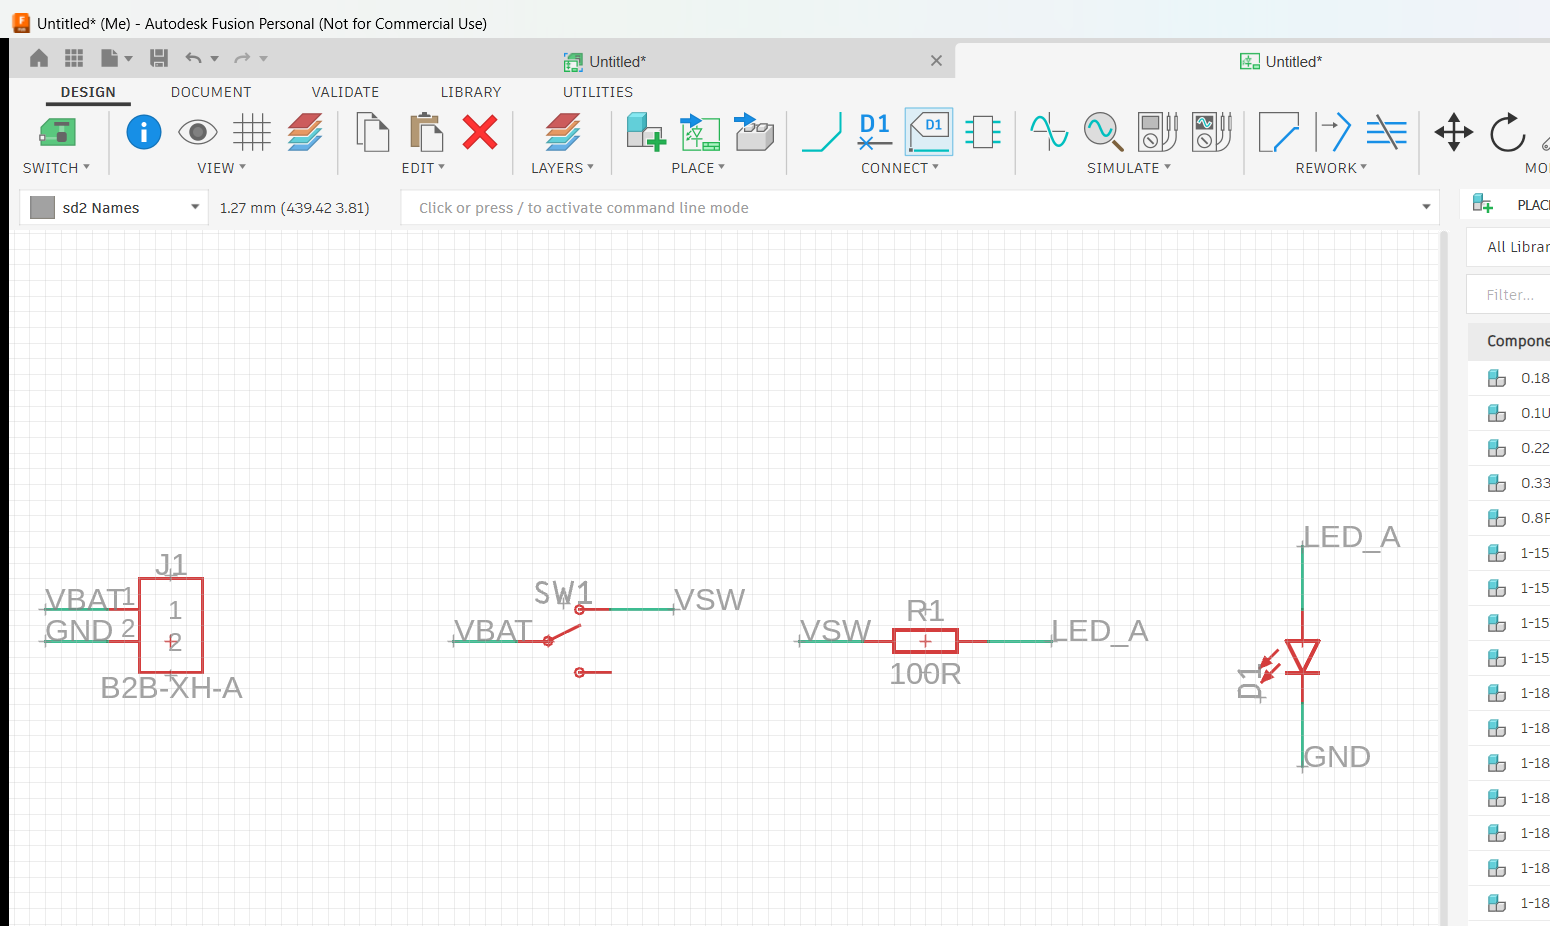
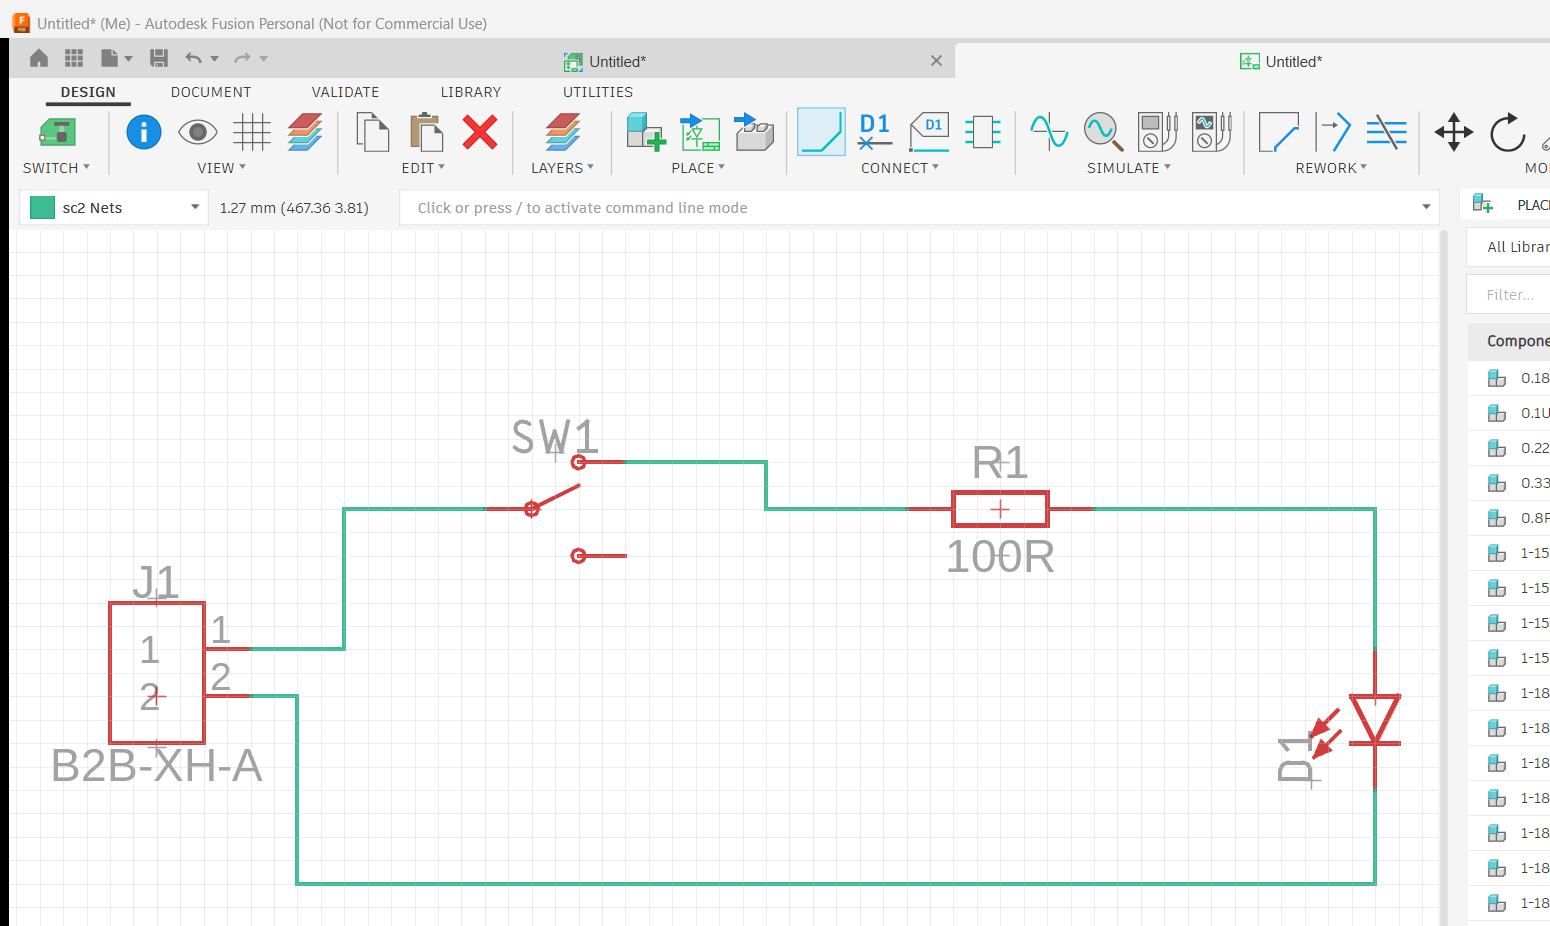
Board 10 schematic drawn as a visible wire loop
The owner looked at the labels-only schematic and saw "just components
spread around". The circuit is now one loop of real wires (new sch_wire
helper, corners picked from the pins' read-back positions), J1 mirrored so
its pins face the loop, netlist still read back equal to the spec. The
fusion-electronics skill gets the rule: draw the schematic for the person
reading it; labels only on dense sheets.

diff --git a/examples/10_led_switch_board/circuit.py b/examples/10_led_switch_board/circuit.py
@@ -1,35 +1,39 @@
 r"""10_led_switch_board: battery connector, slide switch, resistor, LED.
 
-The first board from the chat.
+The first board from the chat. Drawn as one visible loop, so the schematic reads as the circuit:
 
-    python scripts\fusion.py run examples\10_led_switch_board\circuit.py
+    J1.1 --VBAT--> SW1 --VSW--> R1 --LED_A--> D1 --GND--> back to J1.2
+
+    python scripts\fusion.py run examples\10_led_switch_board\circuit.py 120
 
 Part names come from `scripts/fusion_parts.py` (Fusion's own libraries, each with a 3D model).
-Schematic first; the board, the case and the factory files come in the next steps of README.md.
+Positions in mm on a 1.27 mm grid; the corners were chosen from the pins' read-back positions
+so that no wire passes another pin. Schematic first; board, case and factory files follow.
 """
 
-PARTS = [  # ref, part as Fusion names it, value, x, y (mm, schematic)
-    ("J1", "B2B-XH-A@Connector", None, 10.16, 30.48),
-    ("SW1", "SWITCH-SPDT-PTH-11.6X4.0MM@SparkFun-Switches", None, 40.64, 30.48),
-    ("R1", "RESISTOR_AXIAL-10.16MM-PITCH@Tinkercad", "100R", 71.12, 30.48),
-    ("D1", "LED5MM@SparkFun-LED", None, 101.6, 30.48),
+PARTS = [  # ref, part as Fusion names it, value, x, y, orientation
+    ("J1", "B2B-XH-A@Connector", None, 20.32, 30.48, "MR0"),  # mirrored: pins face the loop
+    ("SW1", "SWITCH-SPDT-PTH-11.6X4.0MM@SparkFun-Switches", None, 40.64, 40.64, 0),
+    ("R1", "RESISTOR_AXIAL-10.16MM-PITCH@Tinkercad", "100R", 66.04, 40.64, 0),
+    ("D1", "LED5MM@SparkFun-LED", None, 86.36, 30.48, 0),
 ]
 
-NETS = {  # net name: the pins it joins
-    "VBAT": [("J1", "1"), ("SW1", "P")],
-    "VSW": [("SW1", "O"), ("R1", "1")],
-    "LED_A": [("R1", "2"), ("D1", "A")],
-    "GND": [("D1", "C"), ("J1", "2")],
-}
+WIRES = [  # net, from pin, to pin, corners (mm)
+    ("VBAT", ("J1", "1"), ("SW1", "P"), [(30.48, "J1.1y"), (30.48, 40.64)]),
+    ("VSW", ("SW1", "O"), ("R1", "1"), [(53.34, 43.18), (53.34, 40.64)]),
+    ("LED_A", ("R1", "2"), ("D1", "A"), [(86.36, 40.64)]),
+    ("GND", ("D1", "C"), ("J1", "2"), [(86.36, 20.32), (27.94, 20.32), (27.94, "J1.2y")]),
+]
 
 ecad_new()
-for ref, name, value, x, y in PARTS:
-    sch_place(name, ref, x, y, value)
-for net, pins in NETS.items():
-    for ref, pin in pins:
-        sch_connect(net, ref, pin)
+for ref, name, value, x, y, orient in PARTS:
+    sch_place(name, ref, x, y, value, orient)
+for net, a, b, via in WIRES:
+    # a corner may follow a pin's height ("J1.1y"): read it back rather than assume the symbol
+    pts = [(x, sch_pin(*y[:-1].split("."))[0][1] if isinstance(y, str) else y) for x, y in via]
+    sch_wire(net, a, b, pts)
 ecad("WINDOW FIT")
 
 got = sch_netlist()
-want = {net: sorted(pins) for net, pins in NETS.items()}
-result = {"nets_match": got == want, "netlist": got, "parts": [p[0] for p in PARTS]}
+want = {net: sorted([a, b]) for net, a, b, _ in WIRES}
+result = {"nets_match": got == want, "netlist": got}

diff --git a/CopilotBridge/bridge_helpers.py b/CopilotBridge/bridge_helpers.py
@@ -75,6 +75,7 @@ __all__ = [
     "sch_place",
     "sch_pin",
     "sch_connect",
+    "sch_wire",
     "sch_netlist",
     "brd_elements",
     "brd_move",
@@ -845,10 +846,12 @@ def _part(name):
 
 
 def sch_place(add_name, ref, x, y, value=None, angle=0):
-    """Place `add_name` (exactly as `fusion_parts.py search` prints it) as `ref` at x, y mm."""
+    """Place `add_name` (exactly as `fusion_parts.py search` prints it) as `ref` at x, y mm.
+    `angle` is 0/90/180/270, or an EAGLE orientation such as 'MR0' (mirrored)."""
     if _part(ref):
         raise RuntimeError(f"{ref} is already in the schematic")
-    ecad(f"ADD {add_name} {ref} R{angle} ({x} {y})")
+    orient = angle if str(angle).startswith(("R", "MR", "SR", "SMR")) else f"R{angle}"
+    ecad(f"ADD {add_name} {ref} {orient} ({x} {y})")
     if not _part(ref):
         raise RuntimeError(
             f"ADD {add_name} placed nothing: the name is not in Fusion's libraries "
@@ -890,6 +893,20 @@ def sch_connect(net, ref, pin, stub_mm=5.08, label=True):
         ecad(f"LABEL ({ex} {ey}) ({ex} {ey})")
     if (ref, pin) not in sch_netlist().get(net, []):
         raise RuntimeError(f"NET {net} did not reach {ref}.{pin}")
+
+
+def sch_wire(net, a, b, via=()):
+    """A visible wire named `net` from pin `a` to pin `b`, e.g. ("J1", "1"), through the corner
+    points `via` [(x, y), ...] in mm. Choose corners that pass no other pin: a wire end on a pin
+    joins it (the final netlist check in a circuit script catches a wrong join)."""
+    (ax, ay), _ = sch_pin(*a)
+    (bx, by), _ = sch_pin(*b)
+    pts = [(ax, ay), *via, (bx, by)]
+    ecad(f"NET {net} " + " ".join(f"({x} {y})" for x, y in pts))
+    joined = sch_netlist().get(net, [])
+    missing = [p for p in (tuple(a), tuple(b)) if p not in joined]
+    if missing:
+        raise RuntimeError(f"NET {net} did not reach {missing}; it joins {joined}")
 
 
 def sch_netlist():

diff --git a/examples/10_led_switch_board/README.md b/examples/10_led_switch_board/README.md
@@ -33,7 +33,7 @@ python scripts\fusion.py run examples\10_led_switch_board\circuit.py 120
 | Step | Done |
 |---|---|
 | Parts found in Fusion's libraries, each with a 3D model | 2026-11-16, Fusion 2706.1.17 |
-| Schematic from the chat: 4 parts, 4 nets, read back equal to the spec, looked at | 2026-11-16 |
+| Schematic from the chat: 4 parts, 4 nets drawn as one visible loop, read back equal to the spec, looked at ([media/schematic.png](media/schematic.png)) | 2026-11-16 |
 | Electrical rules check (ERC) clean | not yet |
 | Board: 30 x 20 mm outline, parts placed, two M3 holes, routed | not yet |
 | Design rules check (DRC) against a fab's rules | not yet |
@@ -47,4 +47,4 @@ python scripts\fusion.py run examples\10_led_switch_board\circuit.py 120
 * `VALUE` on a part with a fixed value opens a modal question that blocks the bridge (gotcha 21); the helper
   checks `deviceset.userValue` first.
 * A part whose technology is `_` crashes Fusion's ADD (gotcha 22); `fusion_parts.py` flags them.
-* Net stubs with labels, never long wires: a wire can't touch a pin it was not meant for.
+* A schematic is for people: the first version joined the parts only by matching net labels, and the owner saw "just components spread around". Small circuits are drawn as visible wires, with corners chosen from the pins' read-back positions so no wire passes another pin; the netlist check catches a wrong join.

diff --git a/.claude/skills/fusion-electronics/SKILL.md b/.claude/skills/fusion-electronics/SKILL.md
@@ -79,6 +79,14 @@ Design API around the 3D PCB.
 
 ## Rules while in this territory
 
+* **Draw the schematic for the person reading it.** A small circuit is one visible loop of wires (`sch_wire` with
+  corners picked from the pins' read-back positions, never across another pin), signal flowing left to right,
+  power on top, ground at the bottom. Net labels alone (`sch_connect`) are for dense sheets: the owner's first
+  look at a labels-only schematic was "I see just components spread around" (2026-11-16). Screenshot it and look
+  before calling it done.
+* **Look parts up, never guess them**: `scripts/fusion_parts.py search ...` gives the exact `ADD` name, footprint,
+  pads, 3D model, MPN and status; skip parts flagged "crashes ADD" (gotcha 22) and parts not ACTIVE.
+
 * **Say "not verified yet" before every electronics claim** until the reference says otherwise (CLAUDE.md rules 3
   and 8). Do not promise the owner a schematic from chat until step 1 is done.
 * Facts come with sources: Autodesk's API reference (https://help.autodesk.com/view/fusion360/ENU/?guid=GUID-A92A4B10-3781-4925-94C6-47DA85A4F65A),

diff --git a/.github/skills/fusion-electronics/SKILL.md b/.github/skills/fusion-electronics/SKILL.md
@@ -79,6 +79,14 @@ Design API around the 3D PCB.
 
 ## Rules while in this territory
 
+* **Draw the schematic for the person reading it.** A small circuit is one visible loop of wires (`sch_wire` with
+  corners picked from the pins' read-back positions, never across another pin), signal flowing left to right,
+  power on top, ground at the bottom. Net labels alone (`sch_connect`) are for dense sheets: the owner's first
+  look at a labels-only schematic was "I see just components spread around" (2026-11-16). Screenshot it and look
+  before calling it done.
+* **Look parts up, never guess them**: `scripts/fusion_parts.py search ...` gives the exact `ADD` name, footprint,
+  pads, 3D model, MPN and status; skip parts flagged "crashes ADD" (gotcha 22) and parts not ACTIVE.
+
 * **Say "not verified yet" before every electronics claim** until the reference says otherwise (CLAUDE.md rules 3
   and 8). Do not promise the owner a schematic from chat until step 1 is done.
 * Facts come with sources: Autodesk's API reference (https://help.autodesk.com/view/fusion360/ENU/?guid=GUID-A92A4B10-3781-4925-94C6-47DA85A4F65A),

diff --git a/docs/lessons_log.md b/docs/lessons_log.md
@@ -10,6 +10,9 @@ assumption against a running Fusion and finding it was not quite true.
   with parts looked up in Fusion's own cached libraries (`scripts/fusion_parts.py`) instead of guessed. Two Fusion
   traps found on the way: a value on a fixed-value part opens a blocking question, and parts with the `_`
   technology crash the ADD command. [gotchas 21-23](procedures/gotchas.md)
+- **A schematic is drawn for people, not only for the netlist.** Parts joined by matching labels alone looked like
+  "just components spread around" to the owner; small circuits get visible wires (`sch_wire`), labels only on
+  dense sheets. [fusion-electronics](../.claude/skills/fusion-electronics/SKILL.md)
 - **Fusion's electronics can be driven from the chat.** The official Python API only reads; EAGLE commands sent
   with `Electron.run` write. A new electronics design, a part from a managed library, and a named net between two
   pins were made from the bridge and each confirmed by reading it back. [fusion_reference.md](fusion_reference.md#electronics-workspace-probed-from-the-bridge-2026-11-16-fusion-2706117-python-3147)

diff --git a/docs/fusion_reference.md b/docs/fusion_reference.md
@@ -117,7 +117,8 @@ ECAD_U = 320000 (EAGLE units per mm)
 ecad_new(grid_mm=1.27); ecad_open(which); ecad(command)        which: 'sch' | 'brd' | '3d'
 sch(); brd()
 sch_place(add_name, ref, x, y, value=None, angle=0)            add_name from scripts/fusion_parts.py
-sch_pin(ref, pin); sch_connect(net, ref, pin, stub_mm=5.08, label=True); sch_netlist()
+sch_pin(ref, pin); sch_wire(net, a, b, via=()); sch_netlist()           a, b: ('J1', '1')
+sch_connect(net, ref, pin, stub_mm=5.08, label=True)            a labelled stub, for dense sheets
 brd_elements(); brd_move(ref, x, y, angle=None)                 written, not yet run
 ```
 

diff --git a/README.md b/README.md
@@ -3,7 +3,7 @@
 ### Learn Fusion 360 by hand, then design parts (and later circuits) by talking to an AI that drives Fusion for you.
 
 <!-- last-updated:start -->
-**Last updated 16 November 2026** · 3 new lessons · [See what's new](docs/lessons_log.md)
+**Last updated 16 November 2026** · 4 new lessons · [See what's new](docs/lessons_log.md)
 <!-- last-updated:end -->
 
 **Start page (Hebrew / English): https://avisalmon.github.io/Fusion360BKM/**
